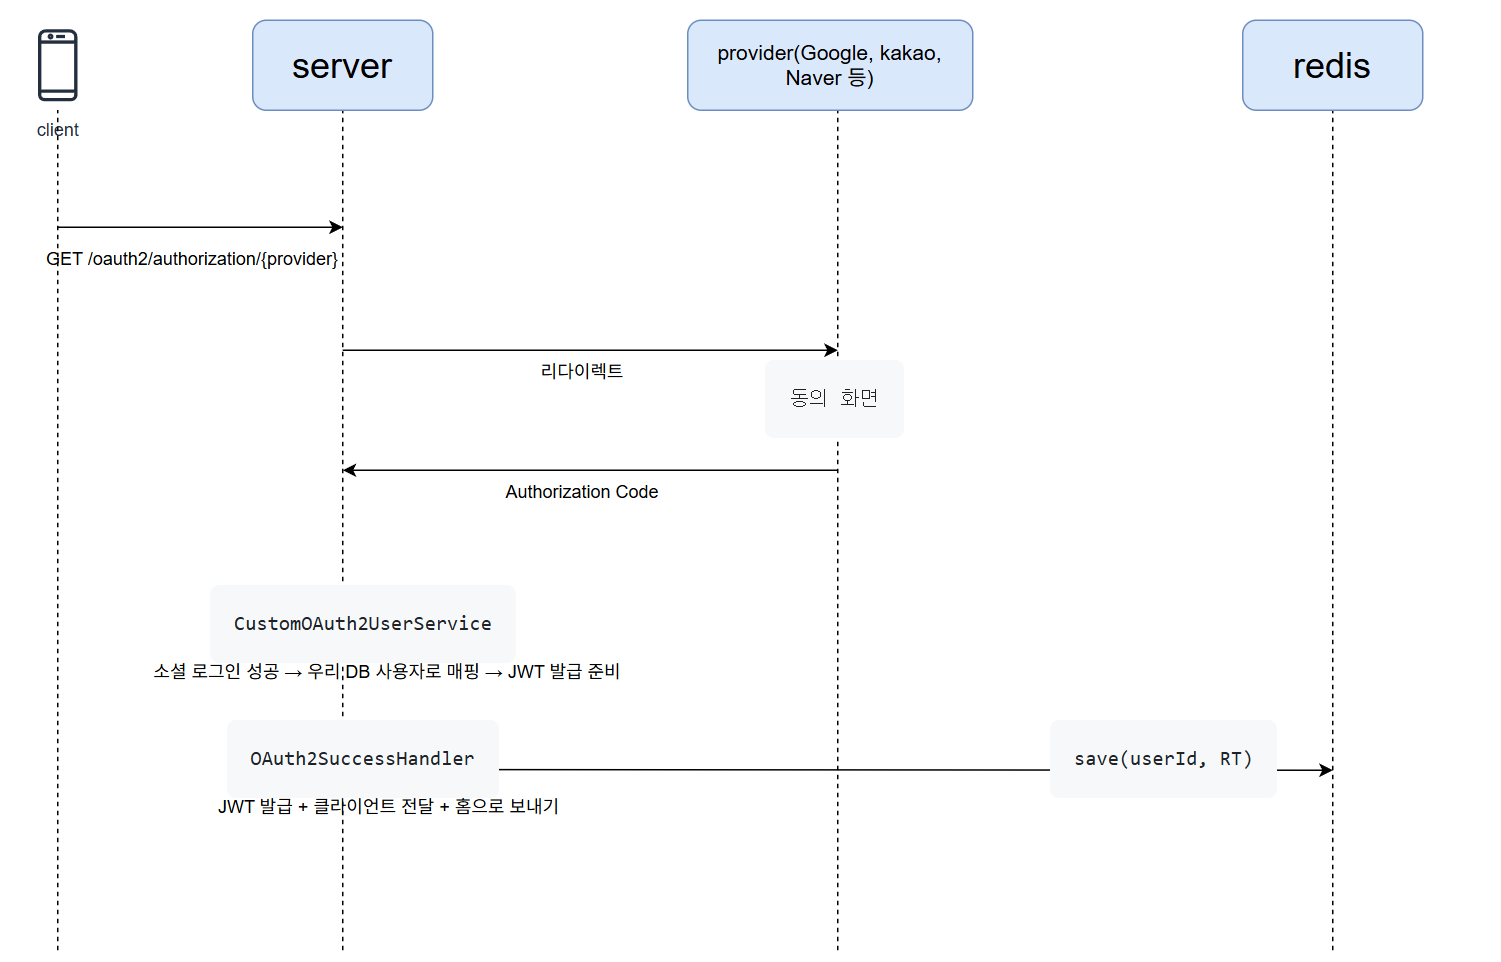
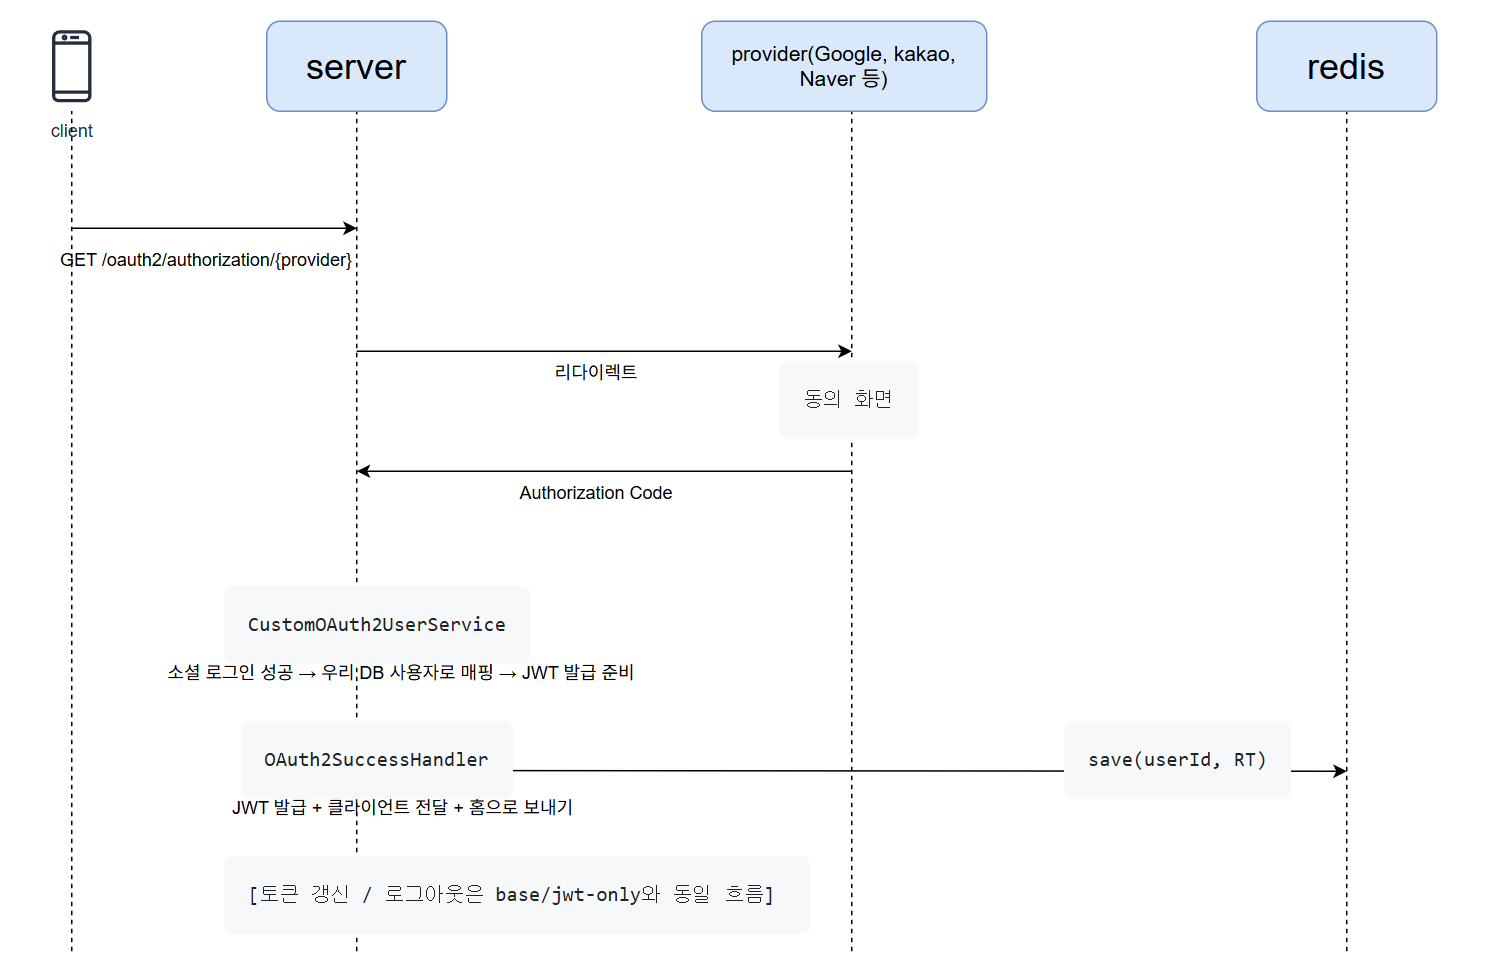
docs: update OAuth2 login flow diagram with refresh/logout note

diff --git a/README.md b/README.md
@@ -26,6 +26,7 @@ sequenceDiagram
     Note over server: OAuth2SuccessHandler<br/>JWT 발급 + 클라이언트 전달 + 홈으로 보내기
     server->>redis: save(userId, RT)
     server->>client: /index.html 리다이렉트 (패턴별 토큰 전달)
+    Note over server: [토큰 갱신 / 로그아웃은 base/jwt-only와 동일 흐름]
     deactivate server
 ```
 

diff --git a/docs/superpowers/specs/2026-07-02-oauth2-jwt-production-design.md b/docs/superpowers/specs/2026-07-02-oauth2-jwt-production-design.md
@@ -109,6 +109,7 @@ sequenceDiagram
     Note over server: OAuth2SuccessHandler<br/>JWT 발급 + 클라이언트 전달 + 홈으로 보내기
     server->>redis: save(userId, RT)
     server->>client: /index.html 리다이렉트 (패턴별 토큰 전달)
+    Note over server: [토큰 갱신 / 로그아웃은 base/jwt-only와 동일 흐름]
     deactivate server
 ```
 

diff --git a/docs/superpowers/specs/2026-07-03-jwt-oauth2-jwt-design.md b/docs/superpowers/specs/2026-07-03-jwt-oauth2-jwt-design.md
@@ -163,6 +163,7 @@ sequenceDiagram
     Note over server: OAuth2SuccessHandler<br/>JWT 발급 + 클라이언트 전달 + 홈으로 보내기
     server->>redis: save(userId, RT)
     server->>client: /index.html 리다이렉트 (패턴별 토큰 전달)
+    Note over server: [토큰 갱신 / 로그아웃은 base/jwt-only와 동일 흐름]
     deactivate server
 ```
 